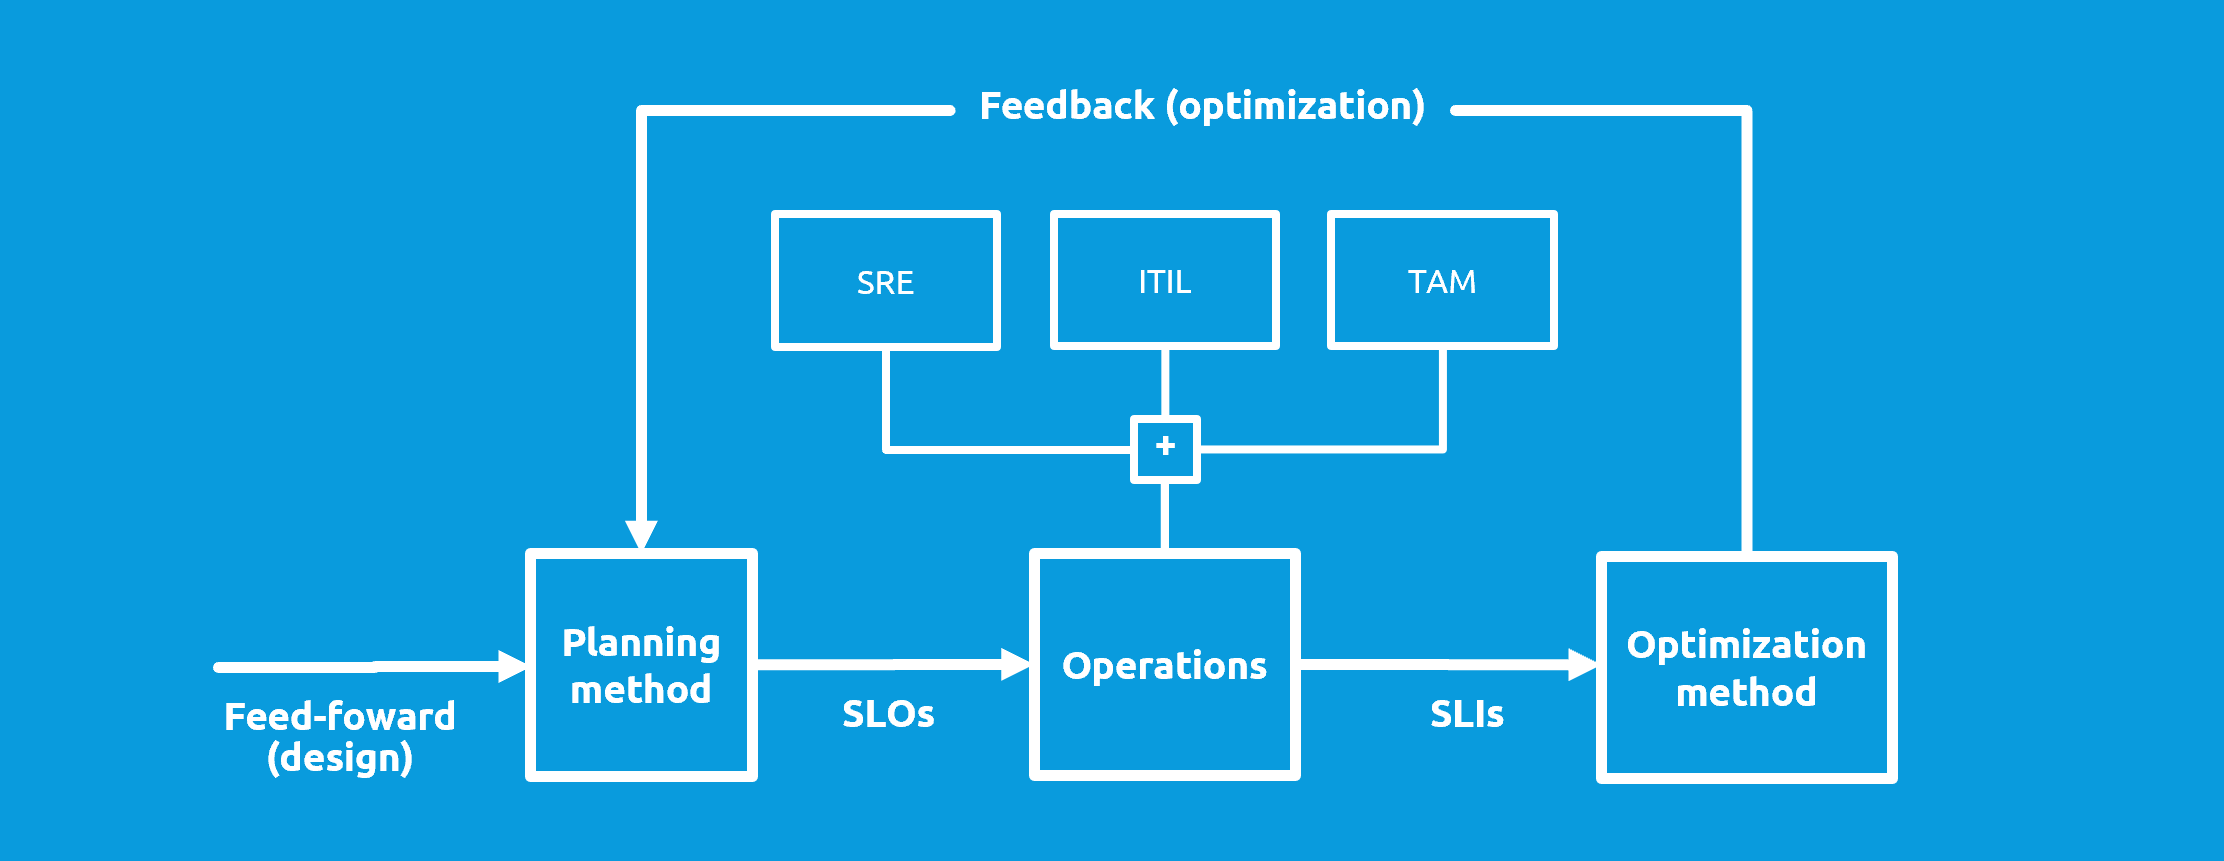
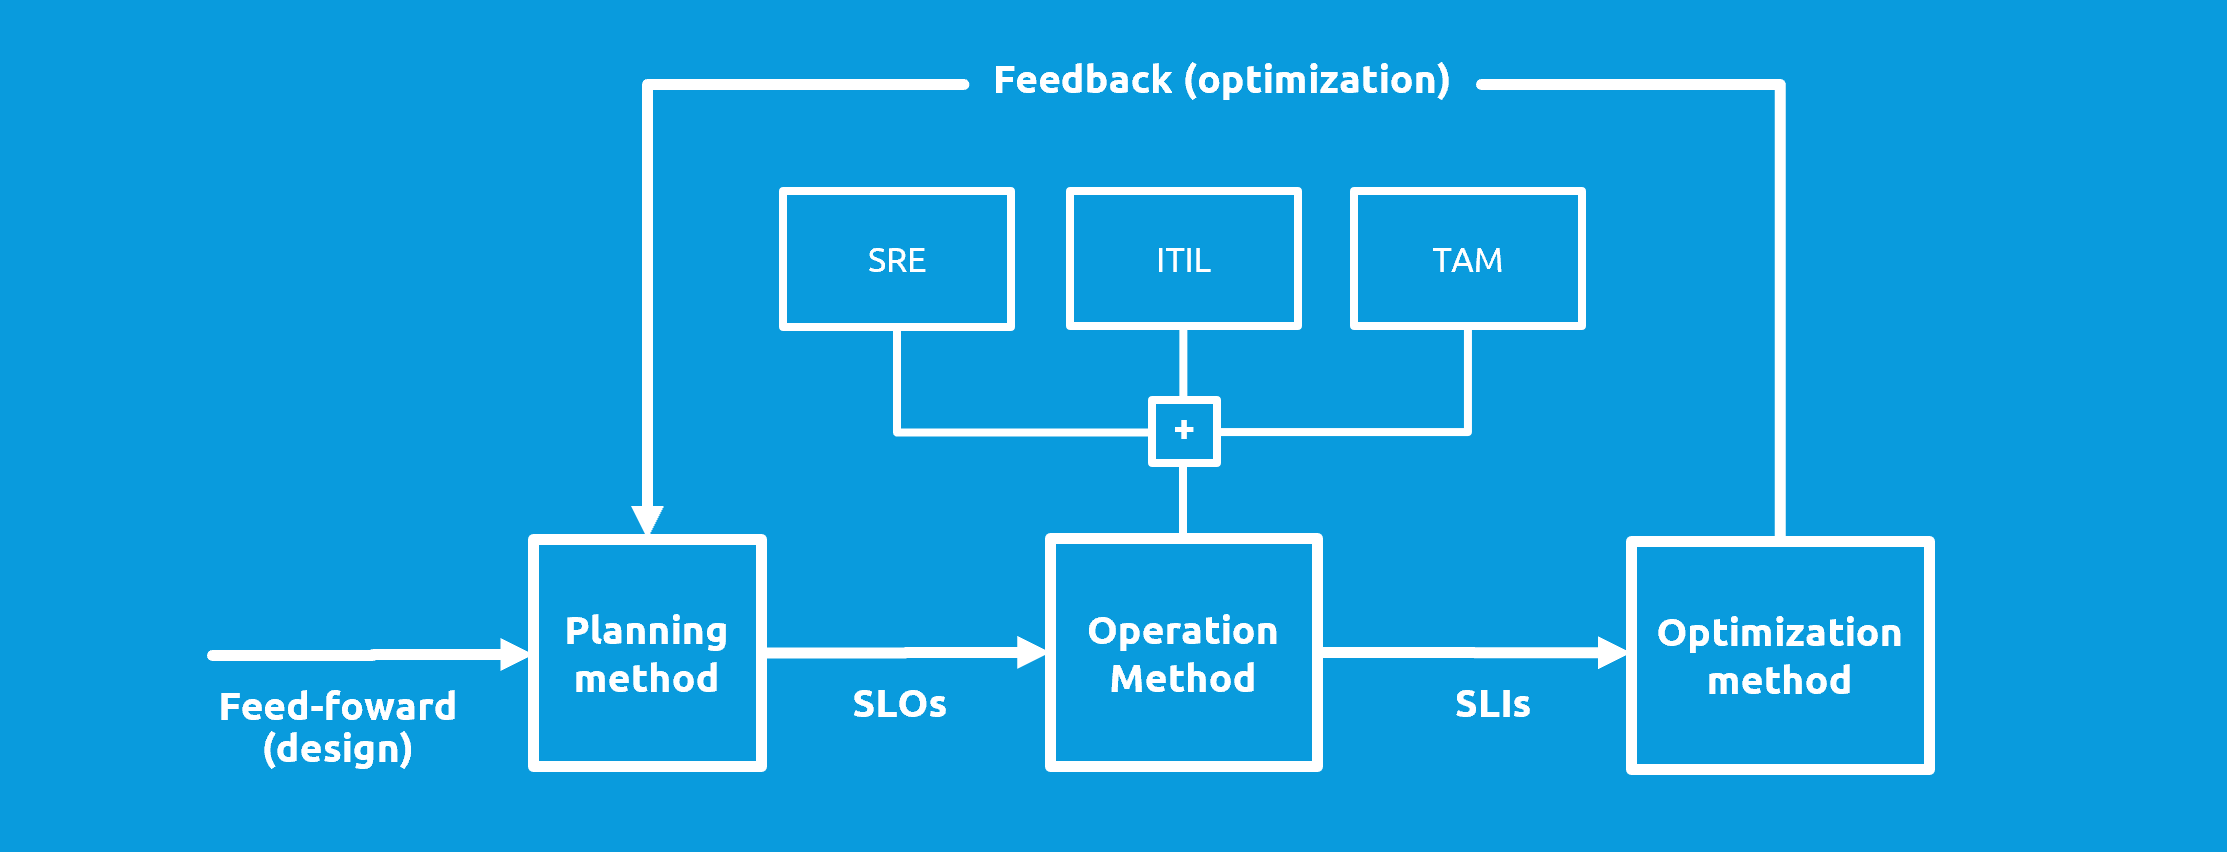
Changes

Changed region(s): [[0.0931, 0.061, 0.8687, 0.9155]]

diff --git a/README.md b/README.md
@@ -47,7 +47,7 @@ improvement* and *collaboration* (loose definition).
 
 ### Continuous Operation 
 
-- [ ] [Ops Strategy](content/operations-setup.md)
+- [ ] [Operation Method](content/operations-setup.md)
 - [ ] [Monitoring and Observability Strategy](content/monitoring-strategy.md)
 - [ ] [Incident management procedure](content/incident-management-procedure.md)
 - [ ] [Rollback procedure](content/rollback-strategy.md)

diff --git a/content/optimization-method.md b/content/optimization-method.md
@@ -1,6 +1,6 @@
 # Optimization Method
 
-An optimization method identifies refactors, waste, problems (using monitoring, analyses and evaluations) that are backlogged for resolving.
+A method for identifying improvements, refactors, waste and problems that are backlogging for resolving.
 
 ```
 Clone this repo and document your optimization method here:

diff --git a/content/operations-setup.md b/content/operations-setup.md
@@ -1,4 +1,4 @@
-# Operations Setup
+# Operation Method
 
 Operations manages how code is deployed, configured, and monitored, as well as the availability, latency, change management, emergency response, and capacity management of services in production.
 
